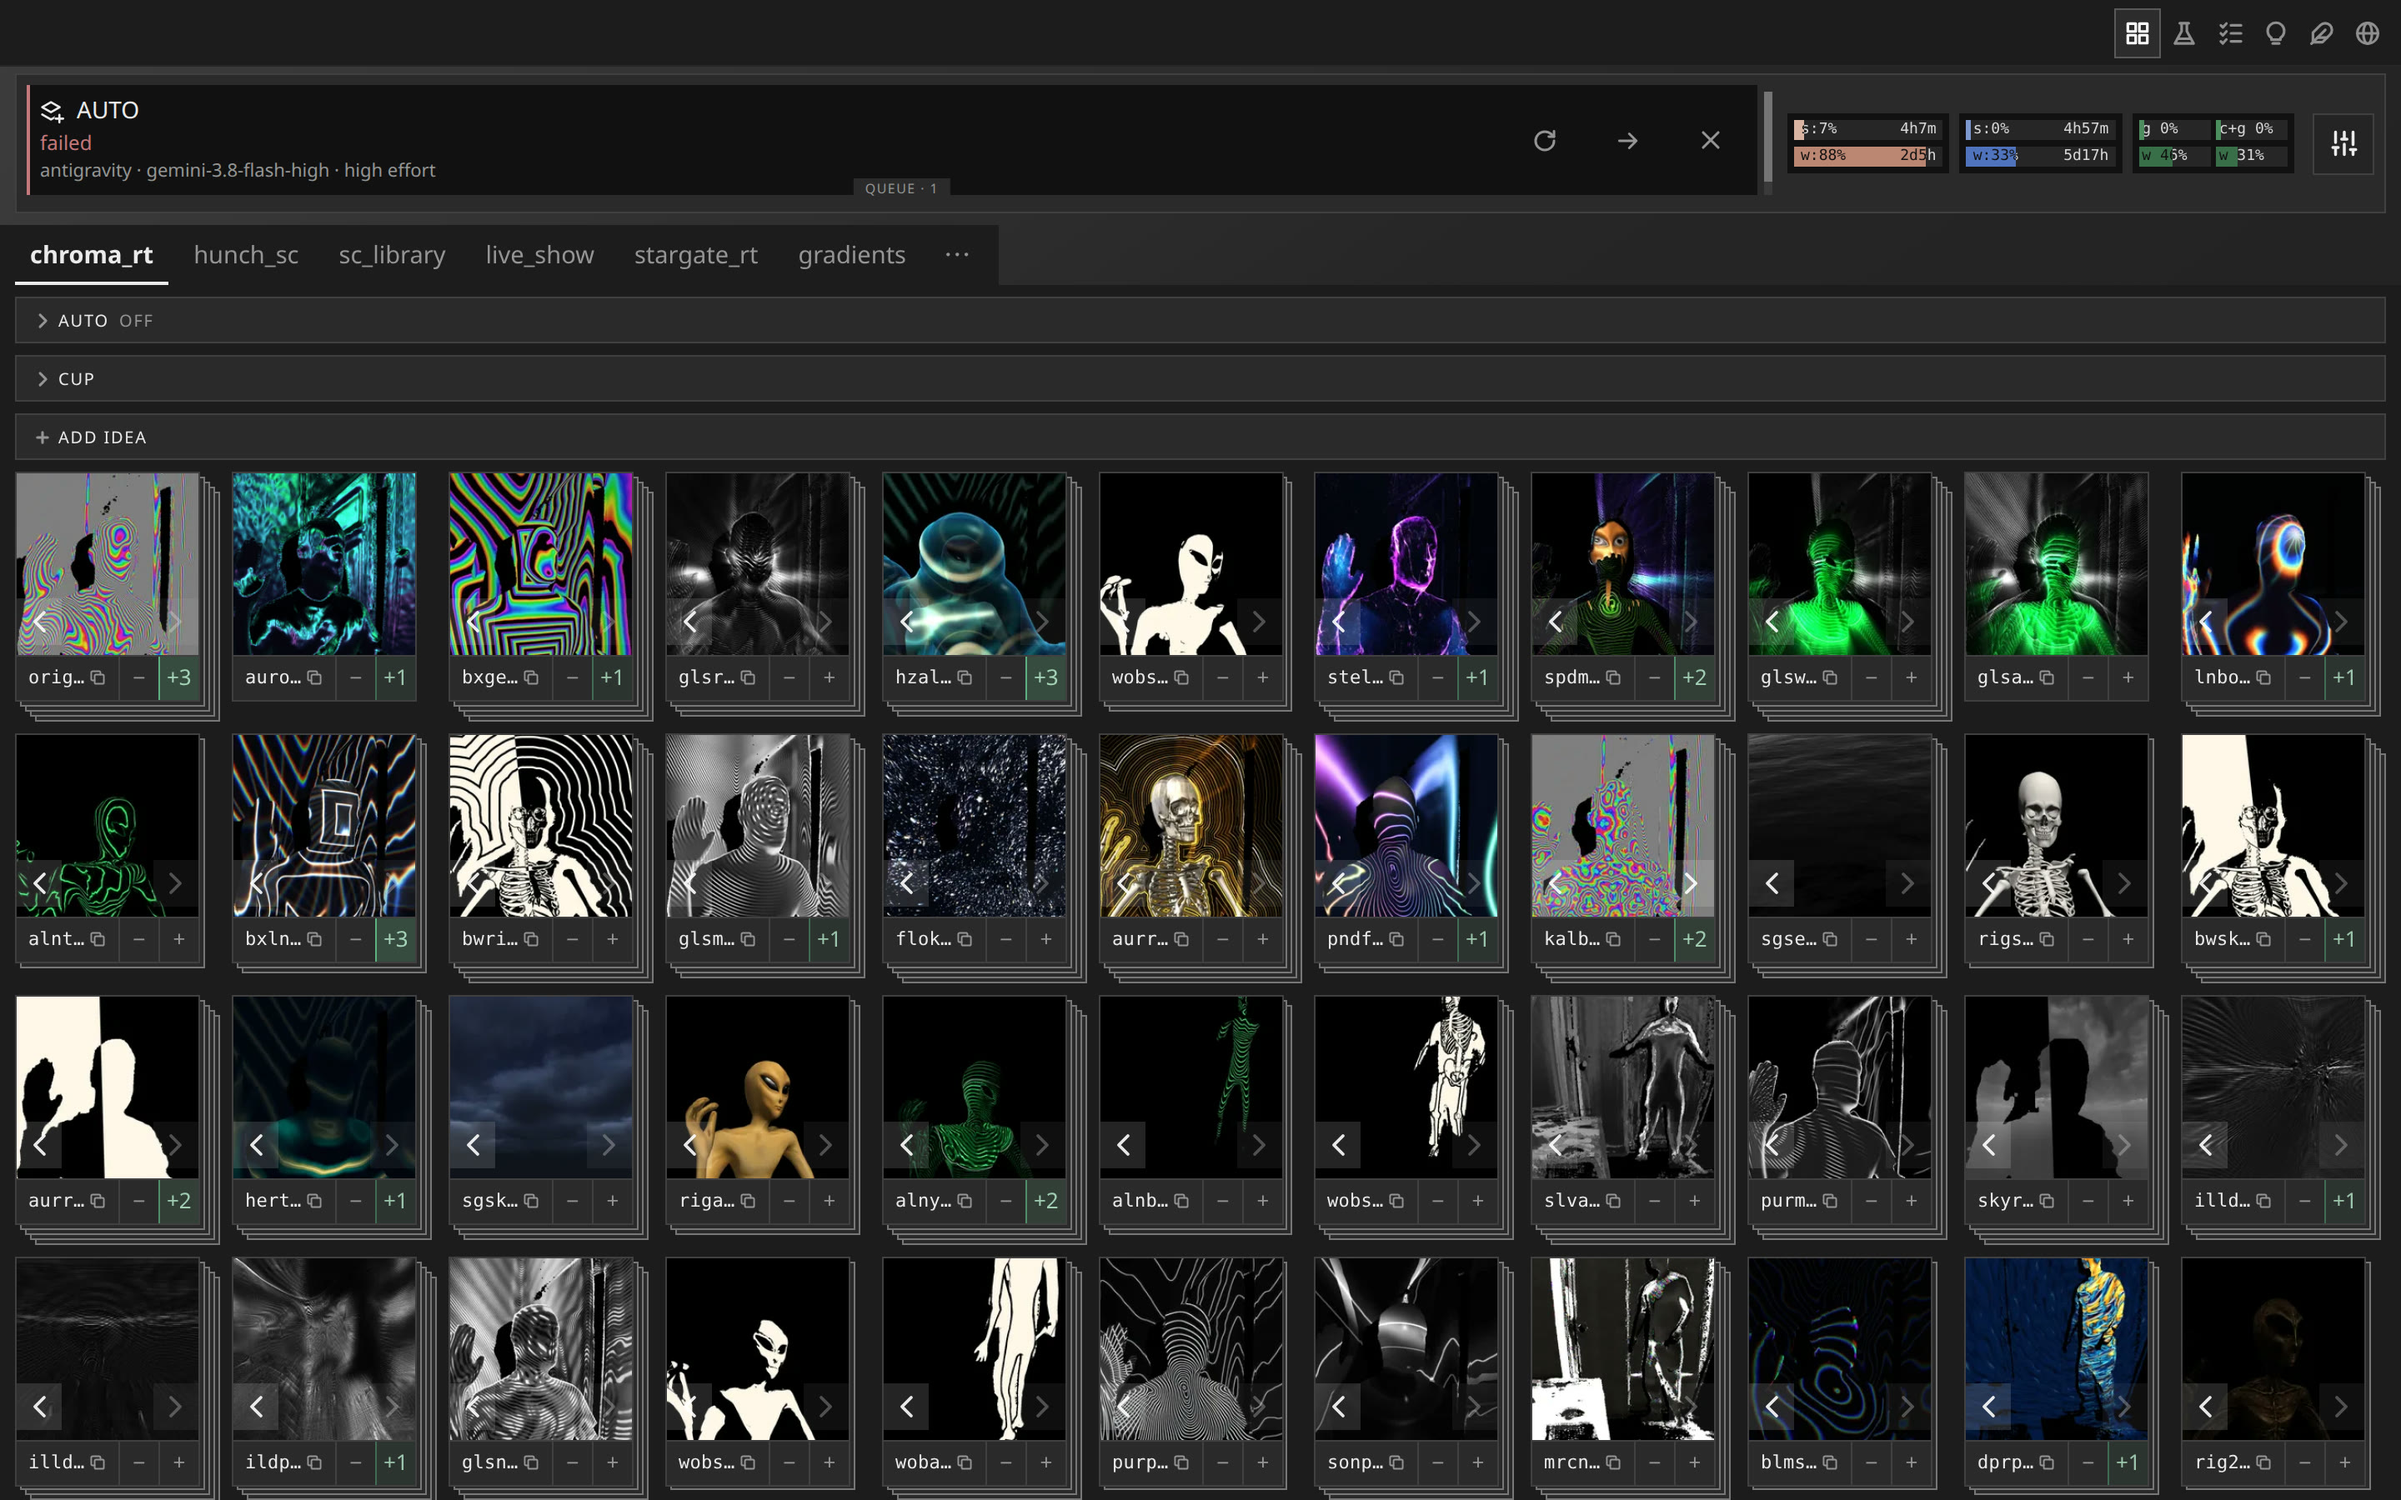
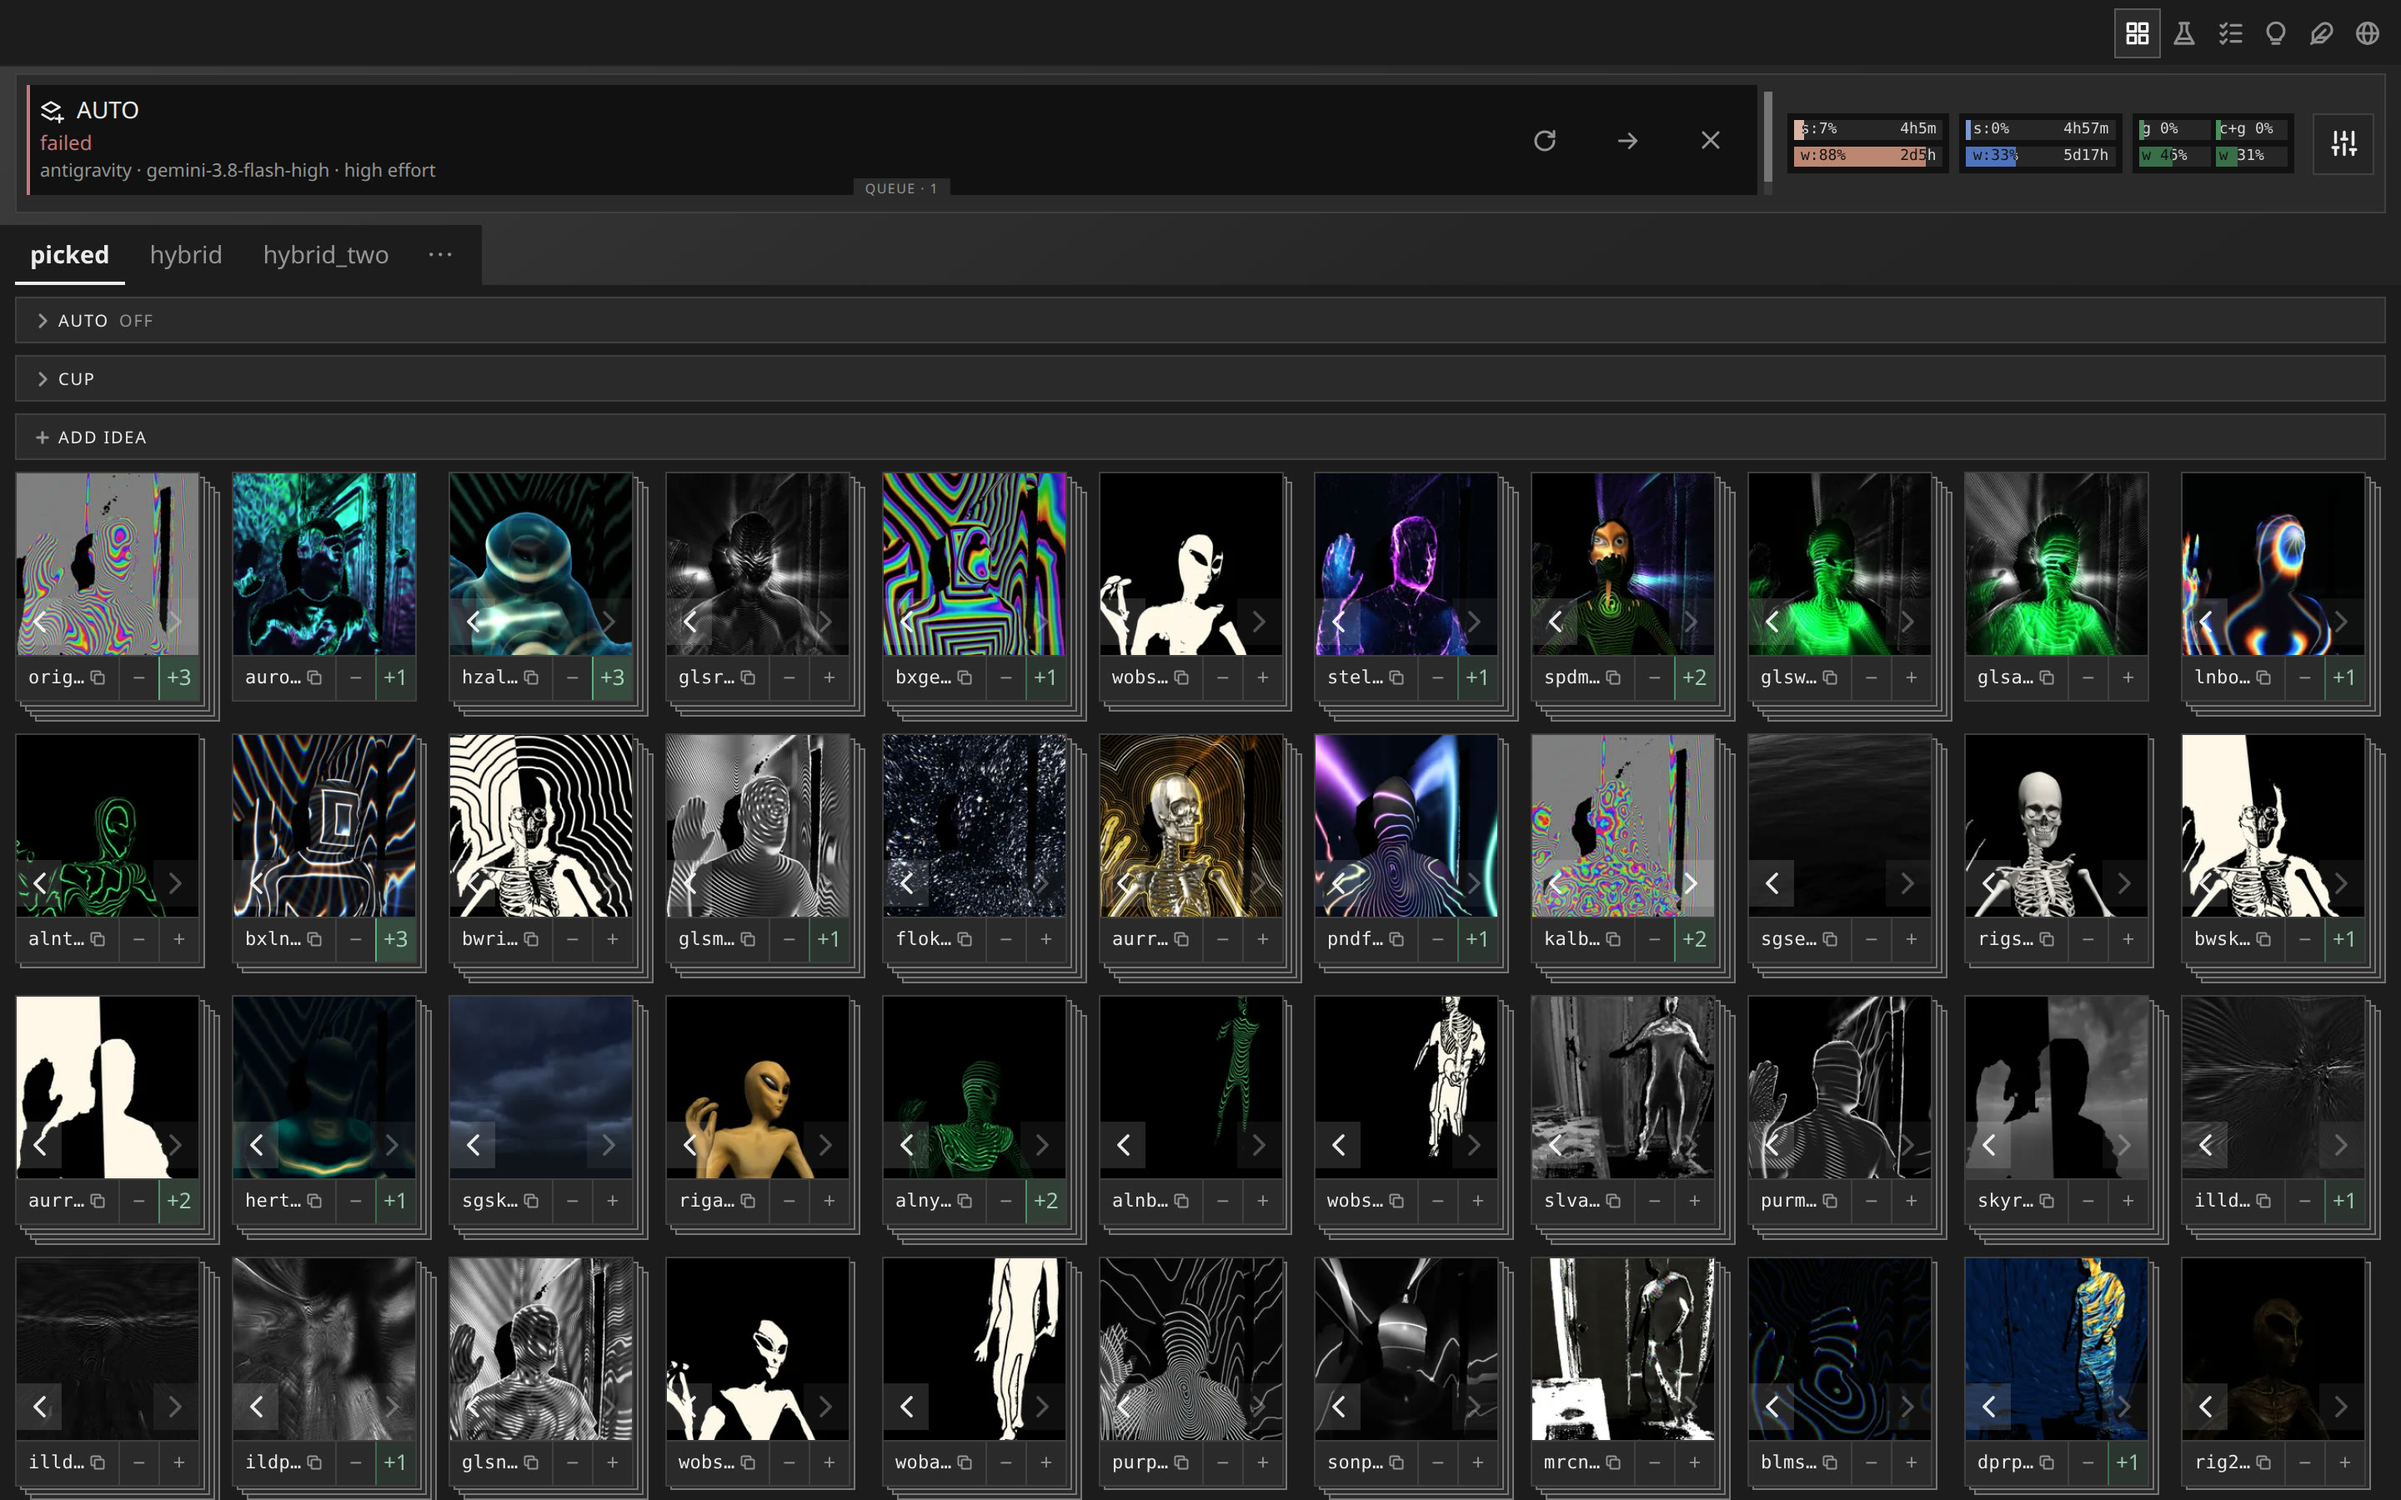
README screenshots: the example's tab names, a different third card, the samples renamed
In the screenshot browser only: the tabs named picked, hybrid and hybrid_two, the other tabs left out, and the
sample packs' names cut to their descriptive words.

Claude-Session: https://claude.ai/code/session_015uMCNeVF6vUxYUmo8LhS4z

diff --git a/README.md b/README.md
@@ -3,9 +3,9 @@
 ![The picker on a desktop: a tab of cards, each a short loop of a visual mode, with its votes](docs/screenshots/desktop.jpg)
 
 <p>
-<img src="docs/screenshots/phone_chroma_modes.jpg" width="32%" alt="The same tab on a phone, two columns">
-<img src="docs/screenshots/phone_hunch_sc.jpg" width="32%" alt="A sound tab: each card's voices as lanes">
-<img src="docs/screenshots/phone_sc_library.jpg" width="32%" alt="AUTO's list of what it made, each with an A/B player and votes">
+<img src="docs/screenshots/phone_chroma_modes.jpg" width="32%" alt="A picked tab on a phone, two columns">
+<img src="docs/screenshots/phone_hunch_sc.jpg" width="32%" alt="A hybrid tab of sound: each card's voices as lanes">
+<img src="docs/screenshots/phone_sc_library.jpg" width="32%" alt="A hybrid tab: each card a sample (A) and a voice made for it (B), with its score">
 </p>
 
 Asking agents for work in a chat is slow, because every request is typed; judging what comes back is fast. The picker
